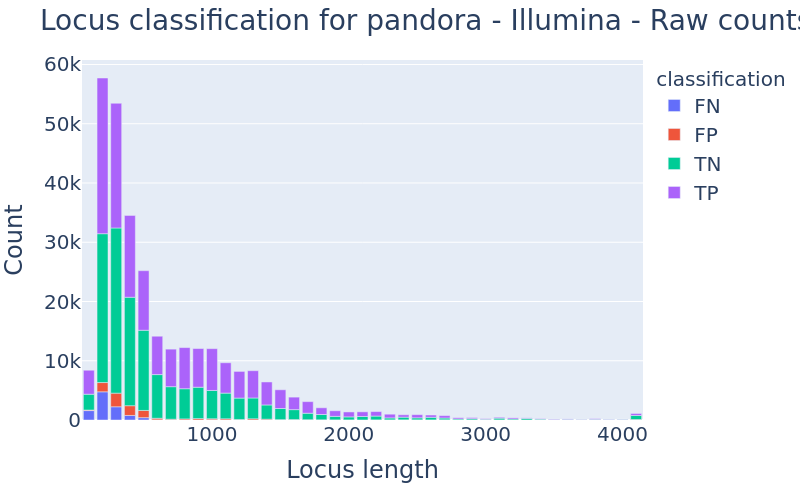
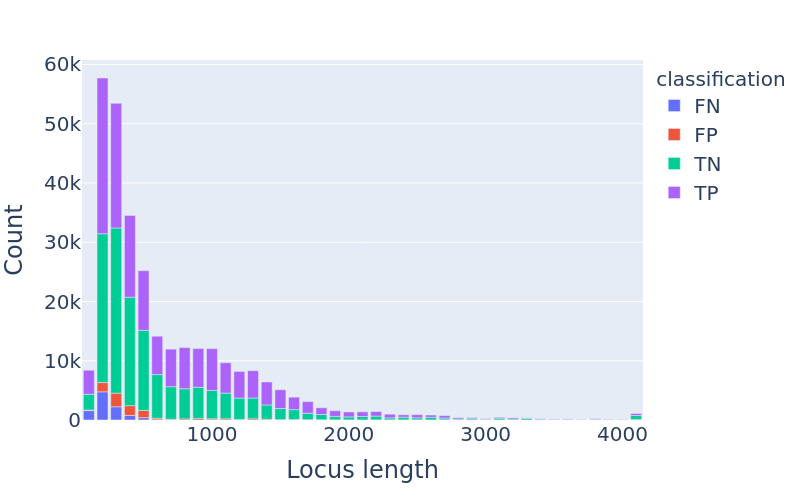
Updating Supplementary Figure A3

Changed region(s): [[0.0312, 0.0, 0.7812, 0.06], [0.8125, 0.0, 1.0, 0.06]]

diff --git a/scripts/csv_to_paper_plots/gene_classification/preprocess.py b/scripts/csv_to_paper_plots/gene_classification/preprocess.py
@@ -28,9 +28,9 @@ df_nanopore_normalised = read_df("gene_classification_by_gene_length_normalised.
 # In[3]:
 
 
-def get_plot_gene_classification(data, title, xaxis_title, yaxis_title):
+def get_plot_gene_classification(data, xaxis_title, yaxis_title):
     fig = px.bar(data, x="gene_length", y="count", color="classification")
-    fig.update_layout(title=title, xaxis_title=xaxis_title, yaxis_title=yaxis_title,
+    fig.update_layout(xaxis_title=xaxis_title, yaxis_title=yaxis_title,
                      font={"size": 20}, width=800, height=500)
     return fig
 
@@ -40,28 +40,24 @@ def get_plot_gene_classification(data, title, xaxis_title, yaxis_title):
 
 plot_illumina = get_plot_gene_classification(
     df_illumina,
-    title=f"Locus classification for pandora - Illumina - Raw counts",
     xaxis_title="Locus length",
     yaxis_title="Count")
 plot_illumina.write_image("gene_classification_by_gene_length.illumina.png")
 
 plot_illumina_normalised = get_plot_gene_classification(
     df_illumina_normalised,
-    title=f"Locus classification for pandora - Illumina - Normalised",
     xaxis_title="Locus length",
     yaxis_title="Proportion")
 plot_illumina_normalised.write_image("gene_classification_by_gene_length_normalised.illumina.png")
 
 plot_nanopore = get_plot_gene_classification(
     df_nanopore,
-    title=f"Locus classification for pandora - Nanopore - Raw counts",
     xaxis_title="Locus length",
     yaxis_title="Count")
 plot_nanopore.write_image("gene_classification_by_gene_length.nanopore.png")
 
 plot_nanopore_normalised = get_plot_gene_classification(
     df_nanopore_normalised,
-    title=f"Locus classification for pandora - Nanopore - Normalised",
     xaxis_title="Locus length",
     yaxis_title="Proportion")
 plot_nanopore_normalised.write_image("gene_classification_by_gene_length_normalised.nanopore.png")
